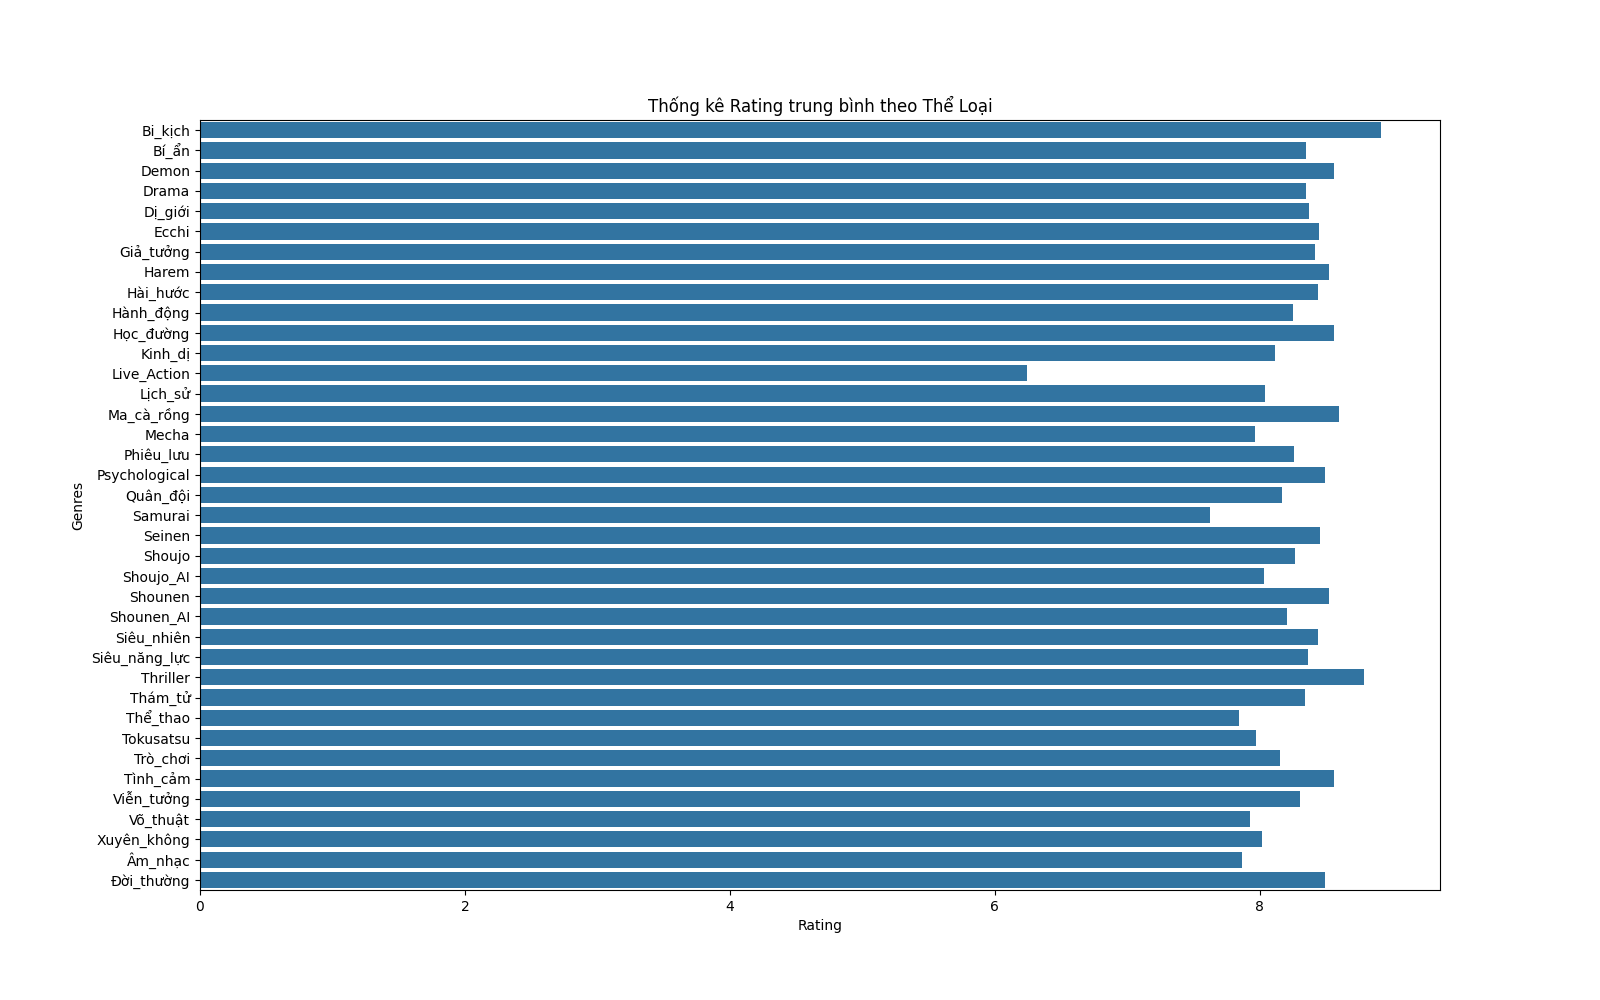
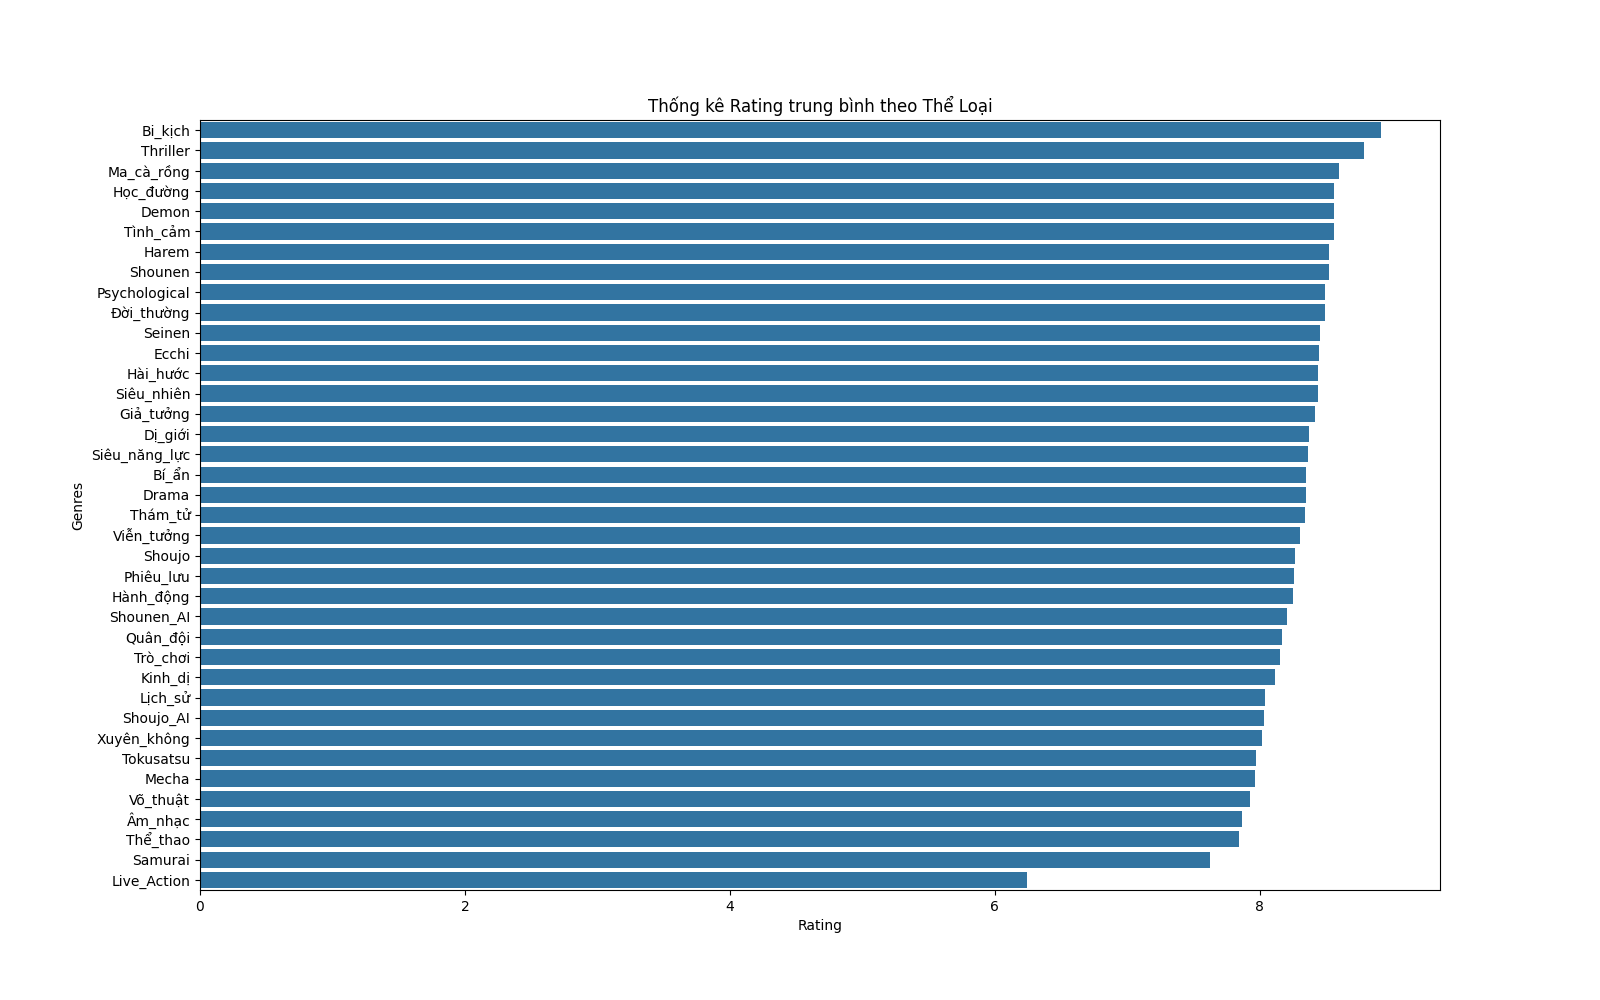
update sorting

diff --git a/anime_visualization.py b/anime_visualization.py
@@ -93,7 +93,7 @@ def create_genres_rating_chart(data):
     genres_data = data.assign(genres_generated=data['Thể Loại'].str.split(' ')).explode('genres_generated')
     genres_data = genres_data[~genres_data['genres_generated'].isin(['Anime', '[CNA]_Hài_hước'])]
 
-    rating_by_genres = genres_data.groupby('genres_generated')['Rating'].mean()
+    rating_by_genres = genres_data.groupby('genres_generated')['Rating'].mean().sort_values(ascending=False)
     plt.figure(figsize=(16, 10))
     sns.barplot(y=rating_by_genres.index, x=rating_by_genres.values)
     plt.title("Thống kê Rating trung bình theo Thể Loại")
